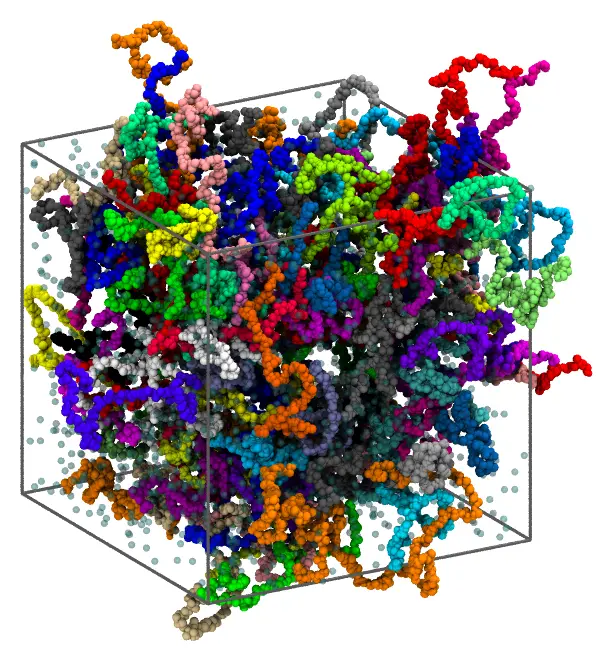
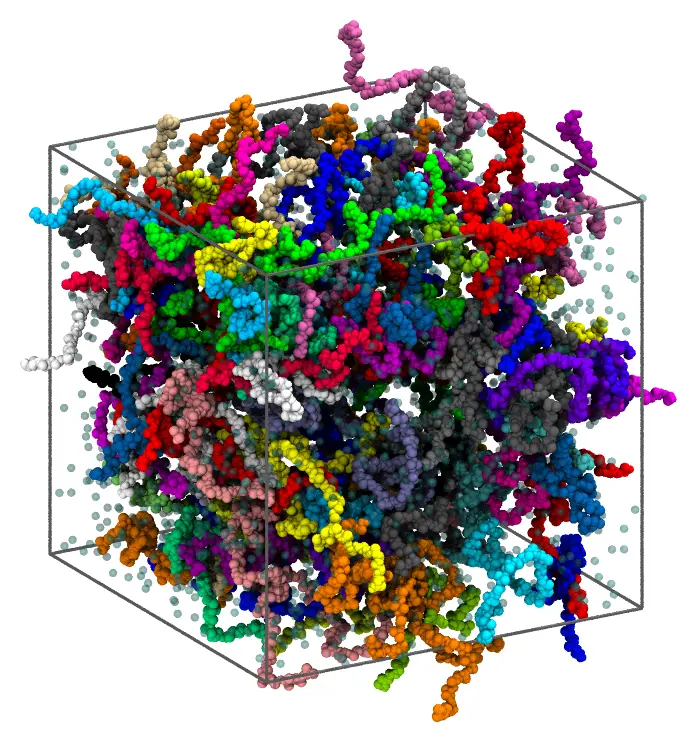
compress: optional arguments, fixed molecules, all periodic cells; polymers placed by their centers
- `compress [<fraction> [<step>]]` (defaults 0.5 and 0.05), `compress = true` in Julia.
- Fixed molecules are supported: they stay in place, and the free molecules are packed
  around them and compressed toward them. The limitation is constraints tied to the
  fixed molecules (e.g. the membrane inside the protein shell of the Zika virion).
- The docs say that all periodic cells are supported (scaled about their center).
- With PBC, polymers are written whole, placed in the cell by their center (they were by
  their first monomer: in the homogeneous condensate, 29 chains were mostly outside the
  cell, now 9); images of the homogeneous mixture redone.
- Docs: which conformations of polymers pack (rigid, they must fit the cell and the
  constraints; a single extended chain packs the homogeneous mixture, not the droplet);
  build_peptides.jl linked as a proof of concept (conformations are the job of the user),
  flexibility at the residue level, what the fraction of `compress` means.

Claude-Session: https://claude.ai/code/session_01CXddAwr4yrj6sB8Dw4cVqQ

diff --git a/docs/src/tutorials/condensate.md b/docs/src/tutorials/condensate.md
@@ -19,15 +19,16 @@ links between the monomers.
 
 ![The homogeneous mixture](images/condensate_homogeneous.webp)
 
-*The homogeneous mixture: the chains, each in a color, and one water molecule in 20 (the
-chains are written whole, so some cross the faces of the cell).*
+*The homogeneous mixture: the chains, each in a color, and one water molecule in 20.
+The chains are written whole, each placed in the cell by its center: a chain of up to
+100 Å crosses the faces of the cell, and its parts outside are the periodic images of
+parts inside (with PBC, an artifact of the view only).*
 
 ![The droplet](images/condensate_droplet.webp)
 
 *The droplet: the chains at 400 mg/mL, and one water molecule in 20.*
 
-Files: [`build_peptides.jl`](files/condensate/build_peptides.jl) (the conformations of
-the chains), [`peptides.pdb`](files/condensate/peptides.pdb) (built by it),
+Files: [`peptides.pdb`](files/condensate/peptides.pdb) (the conformations of the chains),
 [`wt4.pdb`](files/condensate/wt4.pdb), and the input files
 [`homogeneous.inp`](files/condensate/homogeneous.inp),
 [`droplet_chains.inp`](files/condensate/droplet_chains.inp) and
@@ -35,27 +36,19 @@ the chains), [`peptides.pdb`](files/condensate/peptides.pdb) (built by it),
 
 ## The chains
 
-`peptides.pdb` holds 10 conformations of (VPGVG)₂₀ (one model each), random coils built
-by `build_peptides.jl`: each chain grows residue by residue, with the dihedral angles
-drawn from the regions of the Ramachandran plot of disordered proteins (polyproline II,
-β and α), as a self-avoiding walk, and its atoms are mapped to the beads of SIRAH, each
-on an atom: GN on N, GC on Cα and GO on O (the backbone), BCB on Cβ (valine) and BCG
-on Cγ (proline); glycine has no side-chain bead. Each chain has 360 beads, and its
-radius of gyration is between 21 and 40 Å.
+`peptides.pdb` holds 10 conformations of (VPGVG)₂₀ (one model each), random coils of
+360 beads, with radii of gyration between 21 and 40 Å, in the bead names of SIRAH (GN,
+GC and GO on the backbone, BCB and BCG on the side chains of valine and proline; glycine
+has no side-chain bead).
 
-```@raw html
-<details><summary>The script <code>build_peptides.jl</code> (click to expand)</summary>
-```
-```@eval
-Main.input_file("files/condensate/build_peptides.jl")
-```
-```@raw html
-</details><br>
-```
-
-```
-julia build_peptides.jl peptides.pdb
-```
+!!! note "Conformations of the chains"
+    Generating the conformations is not the job of Packmol, but of the user: they should
+    come from a simulation of the free chain, for example a short molecular dynamics
+    simulation at high temperature. The conformations of `peptides.pdb` were built by
+    [`build_peptides.jl`](files/condensate/build_peptides.jl), a proof of concept only:
+    self-avoiding random walks with dihedral angles from the regions of the
+    Ramachandran plot of disordered proteins, mapped to the beads of SIRAH, with no
+    force field behind them.
 
 ## The chains as polymers
 
@@ -83,6 +76,14 @@ least 2.25 Å apart in all of them: no pair of beads is left out of the distance
 
 The chains are first packed as rigid molecules, and then released: released overlapping
 each other, the chains get threaded through each other's monomers, and do not separate.
+
+Here the flexibility is at the level of the repeated pentapeptide: each monomer of 5
+residues is rigid. It could be set at the level of the residues instead, each residue a
+monomer linked to the next one: a `repeat 20` block of five `monomer` lines, of the
+sizes of the residues (4, 4, 3, 4 and 3 beads for V, P, G, V and G), each with the links
+of its junction to the next residue. Or with rotatable bonds along the backbone (see
+[Rotatable bonds](@ref)). More monomers make the chains more flexible, and the packing
+slower.
 
 ## The numbers of molecules
 
@@ -126,8 +127,10 @@ around the chains).
 Main.input_file("files/condensate/droplet_chains.inp")
 ```
 
-With `compress 0.5`, the sphere and the cell are expanded by 2^(1/3) (to a sphere of
-126 Å, in a cube of 328 Å), and the chains packed there, at 200 mg/mL: as rigid
+With `compress 0.5`, the chains are first packed at half the density (0.5 is the
+fraction of the density, and the default: `compress` alone is the same). The sphere and
+the cell are expanded by 2^(1/3), to a sphere of 126 Å, in a cube of 328 Å, twice the
+volume, and the chains are packed there, at 200 mg/mL: as rigid
 molecules, then released. Then the system is compressed in steps back to the sphere of
 100 Å: the positions of the chains, the sphere and the cell scaled together, and the
 chains packed again from there at each step.

diff --git a/docs/src/input_files/packing_by_compression.md b/docs/src/input_files/packing_by_compression.md
@@ -7,21 +7,27 @@ The keyword `compress` (Packmol.jl only) packs such systems at a lower density a
 compresses them, in steps, to the density of the input:
 
 ```
-compress 0.5          # pack at half the density, then compress
+compress              # pack at half the density, then compress
 ```
 
 The input describes the system at its density (the constraints, the periodic cell, the
-numbers of molecules), and `compress <fraction> [<step>]` sets the fraction of that
-density at which it is first packed, and optionally the initial step of the compression
-(default `0.05`):
+numbers of molecules), and `compress [<fraction> [<step>]]` takes two optional values:
+
+- `fraction` (default `0.5`): the fraction of that density at which the system is first
+  packed. With `0.5`, the system is packed in twice its volume, at half the density; with
+  `0.3`, at 30% of it.
+- `step` (default `0.05`): the initial step of the compression, the fraction by which
+  the linear dimensions shrink at each step (5%).
+
+`compress` alone is `compress 0.5 0.05`:
 
 1. The constraints and the periodic cell are expanded by `fraction^(-1/3)` (by 1.26 for
    `0.5`), about the center of the cell (the origin, without periodic boundary
    conditions), and the system is packed there.
 2. At each step, the geometry is scaled by `1 - step` about the same center: the
-   constraints, the cell, and the positions of the molecules, each moved as a whole (the
-   center of mass of a molecule is scaled; a polymer moves with the center of its
-   monomers). The system is packed again, from there, for up to 100 loops.
+   constraints, the cell, and the positions of the free molecules, each moved as a whole
+   (the center of mass of a molecule is scaled; a polymer moves with the center of its
+   monomers). Fixed molecules stay where they are. The system is packed again, from there, for up to 100 loops.
 3. A step that does not converge is undone, and tried again with half the step; after
    two steps that converge, the step grows by 1.5, up to the initial step. The
    compression ends at the geometry of the input, or stops (with a warning, the output
@@ -45,13 +51,28 @@ Small steps matter: compressed in steps of 3%, without the adaptive step, they s
 other's monomers), and in steps of 0.5% they reached 400 mg/mL in 70 steps.
 
 In Julia, `compress` is a keyword argument of [`packmol`](@ref) and of
-[`PackmolSystem`](@ref): `packmol(system; compress = 0.5)`, or `compress = (0.5, 0.05)`
-with the initial step.
+[`PackmolSystem`](@ref): `compress = true` (the defaults), `compress = 0.3` (the
+fraction), or `compress = (0.3, 0.02)` (the fraction and the initial step).
+
+## Periodic cells and fixed molecules
+
+All periodic cells are supported (orthorhombic, triclinic, dodecahedral, octahedral):
+they are scaled uniformly about their center, which keeps their shape.
+
+Fixed molecules are supported, and are not moved: the free molecules are packed around
+them in the expanded geometry and compressed toward them. This is right when the free
+molecules are placed freely around the fixed ones (polymers or a solvent around a
+nanoparticle or a protein), since the expanded cell and constraints contain them.
 
 !!! note "Limitations"
     - The constraints must be boxes, cubes, spheres, cylinders, ellipsoids or planes (the
       others cannot be scaled).
-    - Not with fixed molecules, which would have to move with the compression: pack the
-      free molecules first, and then the others around them, as in the tutorial, where the
-      water is packed around the compressed chains.
+    - The constraints are scaled and the fixed molecules are not: a constraint that is
+      placed relative to a fixed molecule loses its relation to it in the expanded
+      geometry, and recovers it only at the end of the compression. For example, the
+      membrane of the [Zika virion (a large system)](@ref), in spherical shells chosen
+      to fit inside the fixed shell of proteins, crossed by their transmembrane segments:
+      expanded, the shells of the membrane would be beyond the proteins, and the lipids
+      packed there would be compressed through them. In such systems, pack
+      the free molecules whose regions are tied to the fixed ones without `compress`.
     - Not with `restart_from`.

diff --git a/CLAUDE.md b/CLAUDE.md
@@ -110,7 +110,7 @@ kept out by a constraint, the numbers from `free_volume`); an ionic liquid
 as regions with set numbers of ions); a gold nanoparticle with
 dodecanethiolates in toluene (core by `files/gold_nanoparticle/gold.jl`, ligands bound and oriented by constraints
 on two atoms); the biomolecular condensate (polymers: 123 chains of (VPGVG)20 in SIRAH, conformations by
-`files/condensate/build_peptides.jl`, in WT4 water: a homogeneous mixture, and a droplet at 400 mg/mL packed with
+`files/condensate/build_peptides.jl` (linked as a proof of concept only), in WT4 water: a homogeneous mixture, and a droplet at 400 mg/mL packed with
 `compress`, then the water around the fixed chains; images by `dev/tutorials/condensate_images.jl`); the Zika virion; the lipid nanoparticle,
 designed with an AI agent from an illustration (SIRAH, set `packmol_lnp`, files and images by `dev/tutorials/lnp.jl`
 and `lnp_images.jl`); the all-atom exosome,
@@ -428,8 +428,10 @@ We have full control over the SPGBox.jl package, if some tuning is required. But
       other's monomers and never separate (diagnosed 2026-11-18; monomers of one conformation aligned to
       another were strained: hence one set of monomer types per conformation). radscale 1.0 by default;
       movebad shakes the monomers of bad polymers (random displacements ≤ tolerance/4, rotations ≤ 0.05
-      rad; moving a polymer whole was destructive). Output: polymers whole, in the order of their file,
-      chain per polymer, CONECT of the file. Not supported: fixed, restart_from, constrain_rotation,
+      rad; moving a polymer whole was destructive). Output: polymers whole (PBC: placed in the cell by
+      their center), in the order of their file, chain per polymer, CONECT of the file. Conformations:
+      any, if rigid they fit the cell and the constraints (a single extended (VPGVG)20 of 304 Å packs the
+      homogeneous 260 Å cube in 4 s; not the 100 Å droplet, nor with compress 0.05: stops at 41%). Not supported: fixed, restart_from, constrain_rotation,
       voxel_place.
 - [x] Rotatable bonds (`src/polymers/rotatable.jl`): `rotatable i j [i j ...]` and `bond_distance d` in a
       structure block (Julia `flexible_structure(file; number, rotatable, bond_distance)`), chosen by hand.
@@ -442,12 +444,14 @@ We have full control over the SPGBox.jl package, if some tuning is required. But
       all 28 single C–C bonds of the tails (+ glycerol C1–C2) pack (36 s; 76 s with compress 0.5);
       heads at 17-20 Å, 28 + compress reach 96% of the density. The area per lipid is not the challenge
       (rigid lipids tilt); the thickness is.
-- [x] Packing by compression (`compress <fraction> [<step>]`, Julia `compress = 0.5` or `(0.5, 0.05)`;
+- [x] Packing by compression (`compress [<fraction> [<step>]]`, defaults 0.5 and 0.05; Julia `compress = true`,
+      `0.5` or `(0.5, 0.05)`;
       `src/packing/compression.jl`): constraints and cell expanded by fraction^(-1/3) about the cell center
-      (origin without PBC), packed, then scaled back in steps (molecules moved rigidly, polymers by their
-      center) packed with `restart=true`, 100 loops each; step halved on failure (back to the last
+      (origin without PBC), packed, then scaled back in steps (free molecules moved rigidly, polymers by their
+      center; fixed molecules stay) packed with `restart=true`, 100 loops each; step halved on failure (back to the last
       converged state), ×1.5 after two successes, stop below 5e-4. Constraints: boxes, cubes, spheres,
-      cylinders, ellipsoids, planes; no fixed molecules, no restart_from. The condensate droplet (123 chains,
+      cylinders, ellipsoids, planes; all PBC cells; no restart_from. Limitation: constraints tied to fixed
+      molecules (Zika membrane inside its protein shell) are scaled away from them. The condensate droplet (123 chains,
       400 mg/mL): rigid chains jam at ~220 mg/mL, compressed flexible chains reach 400 in 35-60 s.
 - [x] Rotation constraints (`constrain_rotation`, `src/constraints/rotations.jl`): a penalty on the
       angle between an axis and a vector of the molecule (between the centers of two atom sets, or the

diff --git a/docs/src/input_files/global_keywords.md b/docs/src/input_files/global_keywords.md
@@ -32,7 +32,7 @@
 | `unitcell <a b c α β γ>` | Triclinic periodic box, CRYST1-style (centered at the origin). |
 | `restart_from <file>` | Skip initial placement for every free molecule and read their positions from `<file>` instead — see [Restarting a run](@ref) below. Also valid inside a `structure ... end structure` block, to restart only that structure type. |
 | `voxel_place [max_tries_mult]` | Place the free molecules first with the voxel placement of [Bentopy](https://github.com/marrink-lab/bentopy) (a direct port of its algorithm, see [Placement on a grid (Bentopy)](@ref)), then pack from that placement. The molecules that do not fit are left out of the system, with a warning (a significant warning if more than 10% of a structure type). `max_tries_mult`: the unsuccessful tries of each structure type, times its number of molecules (default 1000, as in Bentopy). For crowded systems of many large molecules. |
-| `compress <fraction> [<step>]` | Pack at `fraction` of the density (between 0 and 1), then compress (Packmol.jl only; see [Packing by compression](@ref)): the constraints and the periodic cell are expanded by `fraction^(-1/3)` about the center of the cell (the origin, without periodic boundary conditions), the system is packed there, and then compressed back to the geometry of the input in steps, each packed from the previous one. The step (the fraction of the linear dimensions, default `0.05`) is halved when a step does not converge, and grows back after two that do. For systems too dense to pack from a random placement: long chains, polymers, crowded large molecules. Not with fixed molecules (pack them in a second step) or `restart_from`; the constraints must be boxes, cubes, spheres, cylinders, ellipsoids or planes. |
+| `compress [<fraction> [<step>]]` | Pack at `fraction` of the density (between 0 and 1, default `0.5`: half the density), then compress (Packmol.jl only; see [Packing by compression](@ref)): the constraints and the periodic cell are expanded by `fraction^(-1/3)` about the center of the cell (the origin, without periodic boundary conditions), the system is packed there, and then compressed back to the geometry of the input in steps, each packed from the previous one. The step (the fraction of the linear dimensions, default `0.05`) is halved when a step does not converge, and grows back after two that do. For systems too dense to pack from a random placement: long chains, polymers, crowded large molecules. Fixed molecules stay in place, and all periodic cells are supported; not with `restart_from`, and the constraints must be boxes, cubes, spheres, cylinders, ellipsoids or planes. |
 
 See [Periodic boundary conditions](../periodic_boundary_conditions/index.md) for the
 full `pbc`/`unitcell` syntax (including the dodecahedral/octahedral shapes)

diff --git a/docs/src/input_files/structure_blocks.md b/docs/src/input_files/structure_blocks.md
@@ -115,6 +115,19 @@ rotation about the bond: as many links as needed to keep the geometry of the jun
   (Chains released overlapping each other end up threaded through each other's monomers,
   and do not separate.) Polymers too dense to pack as rigid molecules are packed at a
   lower density, and compressed (see [Packing by compression](@ref)).
+- **Conformations.** Any conformation of the polymer can be given (one is enough), as
+  long as it fits, as a rigid molecule, in the region of the polymers: smaller than the
+  periodic cell, and than the region of its constraints (expanded, with `compress`),
+  since the polymers are first packed as rigid molecules. The flexibility of the chains
+  does the rest. For example, a single extended conformation of the chains of the
+  [Biomolecular condensate](@ref) (304 Å from end to end) packs in their homogeneous
+  mixture, in a periodic cube of 260 Å (the chains fit along its diagonals), in a few
+  seconds; but not in the droplet, a sphere of 100 Å of radius: rigid, the chains do
+  not fit in it, and released into it from outside they fold into each other and jam.
+  Nor does a larger expansion help: packed at 5% of the density (`compress 0.05`, in a
+  sphere where the extended chains fit), they were compressed only to 41% of it. Coiled
+  conformations, of the size of the chains in solution (e.g. from a simulation of the
+  free chain), pack in both, the droplet compressed in less than a minute.
 - **Close atoms.** The pairs of atoms of different monomers (up to three monomers apart)
   closer than the tolerance in a conformation (the bonded atoms of a junction, and their
   neighbors) are left out of the distances of the polymers of that conformation.
@@ -128,8 +141,9 @@ rotation about the bond: as many links as needed to keep the geometry of the jun
 - **Output.** Each polymer is written whole, with the atoms of the structure file, in
   their order (with the residue numbers of the file), a chain identifier per polymer (or
   the `chain` of the block), and the bonds of the file (`CONECT` records); with periodic
-  boundary conditions, a polymer is not wrapped across the boundaries of the cell (it is
-  whole, its first monomer in the cell).
+  boundary conditions, a polymer is not wrapped across the boundaries of the cell: it is
+  whole, placed in the cell by its center (the mean of the centers of its monomers), so
+  large polymers cross the faces of the cell.
 - **Not supported**: fixed polymers, `restart_from`, `constrain_rotation` and
   `voxel_place`.
 

diff --git a/CHANGELOG.md b/CHANGELOG.md
@@ -21,10 +21,11 @@ Version 100.0.1-DEV
   structure block (`flexible_structure` in Julia) cuts the molecule into rigid fragments at
   those bonds, linked such that they turn about the bonds only. The bonds are those of the
   CONECT records, or computed from the distances (`bond_distance <d>`).
-- ![FEATURE][badge-feature] `compress <fraction> [<step>]` (Packmol.jl only; `compress` keyword
-  argument in Julia): packs the system at a fraction of its density, with the constraints and
-  the periodic cell expanded, and compresses it in adaptive steps to the density of the
-  input, for systems too dense to pack from a random placement.
+- ![FEATURE][badge-feature] `compress [<fraction> [<step>]]` (Packmol.jl only; `compress` keyword
+  argument in Julia): packs the system at a fraction of its density (default 0.5), with the
+  constraints and the periodic cell expanded, and compresses it in adaptive steps to the
+  density of the input, for systems too dense to pack from a random placement. Fixed
+  molecules stay in place; all periodic cells are supported.
 - ![INFO][badge-info] Documentation: the tutorial "Biomolecular condensate", with chains of
   (VPGVG)₂₀ (SIRAH) in water, as a homogeneous mixture and as a droplet at 400 mg/mL, and the
   pages "Polymers" (Structure blocks) and "Packing by compression".

diff --git a/src/polymers/README.md b/src/polymers/README.md
@@ -16,5 +16,5 @@ monomers): a monomer is a fragment.
 | `topology.jl` | `_set_polymer_topology!` (the links between atoms of the system, the polymer of each monomer molecule, the atoms of excluded pairs), `_excluded_pair` (used by the pair functions), and the indices of the structure types and molecules of the monomers. |
 | `link_fg.jl` | The function and gradient of the links, `k (\|d - d0\| - w)²`, for the whole system and for the active subsystem; their largest deviation is part of the convergence criterion. |
 | `placement.jl` | `RigidPolymerSystem` (the system with the polymers as rigid molecules), the initial placement (the rigid system placed and packed, then the monomers aligned to their atoms: released), and the movebad of polymers (`_movebad_polymers!`: random displacements of the monomers of bad polymers). |
-| `output.jl` | The polymers written whole: wrapped by their first monomer, in the order of the atoms of their structure, a chain identifier per polymer, and their bonds. |
+| `output.jl` | The polymers written whole: wrapped by their centers, in the order of the atoms of their structure, a chain identifier per polymer, and their bonds. |
 | `api.jl` | `polymer_structure`, `monomer` and `flexible_structure` (the Julia API). |
